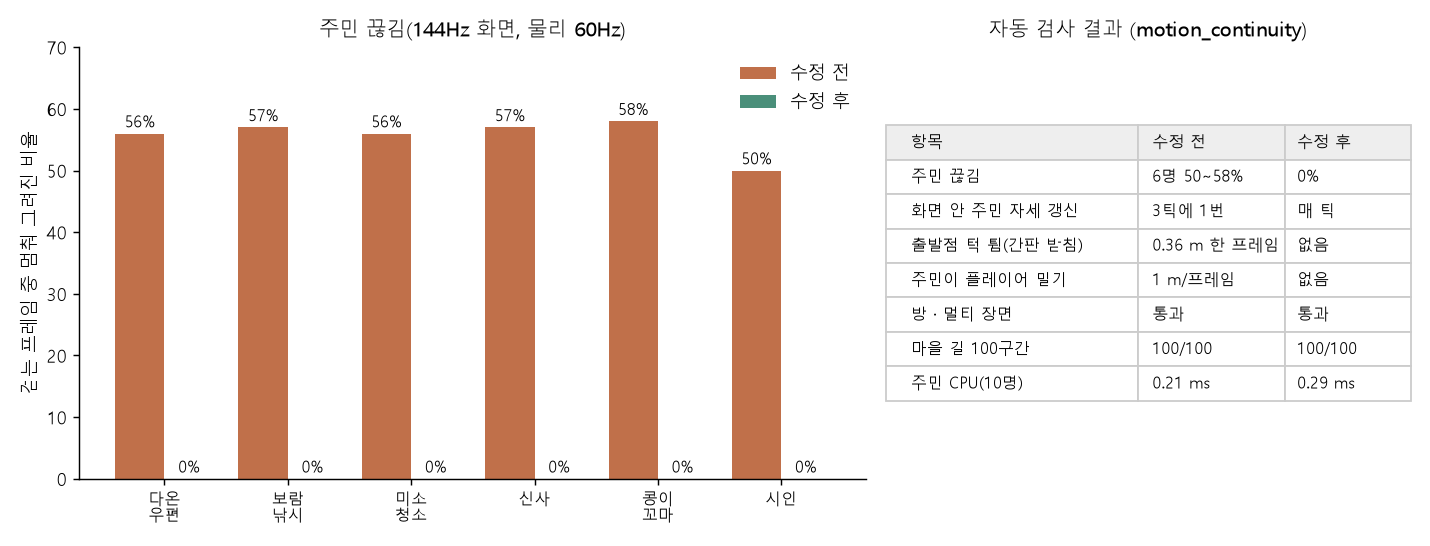
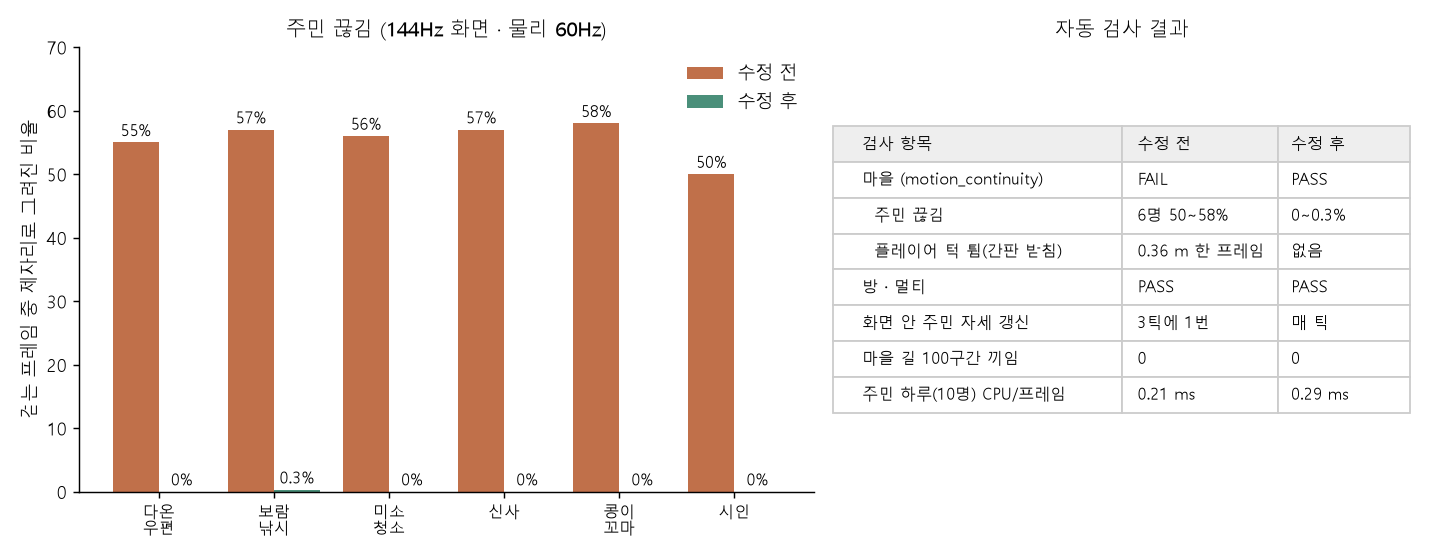
Motion: reset free spot on room/map moves, crowd FPS test (LOD vs old rule), diag tool, uids, results doc + figures

diff --git a/docs/MOTION_CHECK_KO.md b/docs/MOTION_CHECK_KO.md
@@ -56,3 +56,20 @@ MotionWatch.print_report("my_scene", result)
 - `shown`: 보이는지 판정하는 Callable
 - `walking`: 지금 걷는 중인지 판정하는 Callable
 - `yaw_node`: 방향을 읽을 노드
+
+## 함께 있는 도구
+
+- `tests/motion_diag.gd`: 한 지점에서 실제 플레이어를 걷게 하고 틱마다 위치, 바닥·벽 접촉, 부딪힌 물체를 찍습니다. 검사가 잡은 위치의 원인을 볼 때 씁니다.
+  `--headless --fixed-fps 60 ... -- --from=x,z --to=x,z --ticks=150`
+- `tests/motion_fps.gd`: 주민이 모두 나온 마을을 창으로 그리며 프레임 시간을 잽니다. 새 애니메이션 LOD와 옛 규칙을 6초씩 번갈아 잽니다.
+
+## 2026-10-16 결과 (wt/motion)
+
+![수정 전후](figures/motion_before_after.png)
+
+- 수정 전에는 마을 장면이 FAIL이었습니다.
+  - 주민 6명이 144Hz 화면에서 걷는 프레임의 50~58%를 제자리로 그렸습니다. 물리 틱 사이 보간이 없었기 때문입니다.
+  - 플레이어가 간판 받침에 0.36 m 올라탔다가 떨어졌습니다.
+- 수정 후에는 마을·방·멀티 모두 PASS입니다.
+- 회귀 검사: 마을 길 100구간 100/100, 주민 하루 시뮬레이션 OK.
+- 주민 15명이 화면 안에 있는 마을에서 프레임 시간은 평균 2.8 → 2.9~3.1 ms, 최악 1%는 8~10.5 → 7.3~9.6 ms였습니다. 주민 CPU는 틱당 0.77 → 0.93~1.0 ms입니다.
